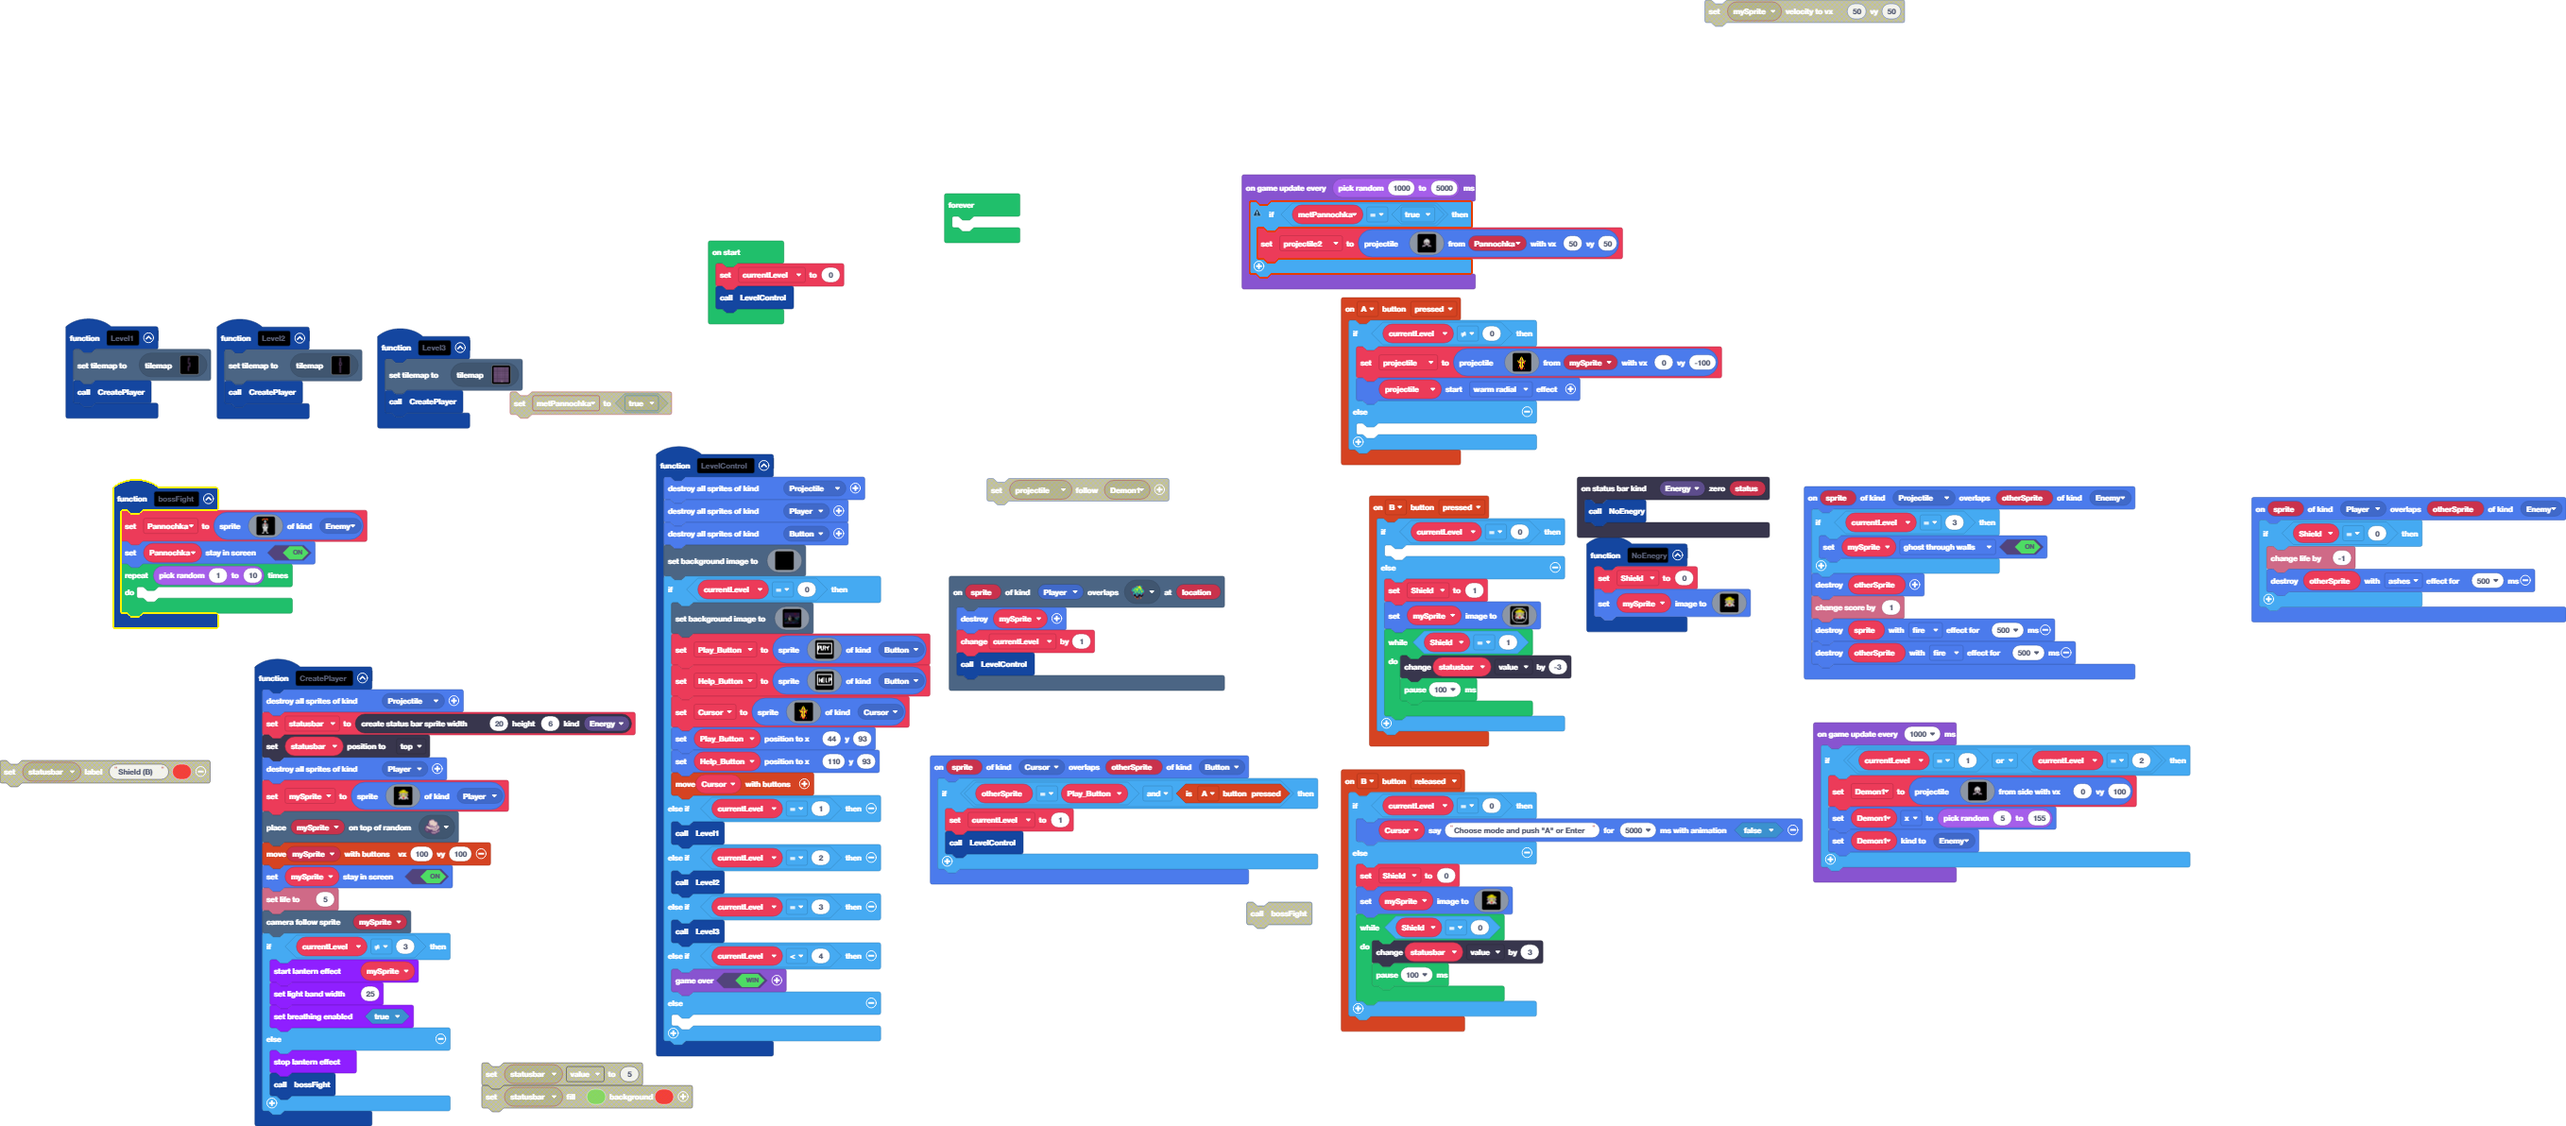
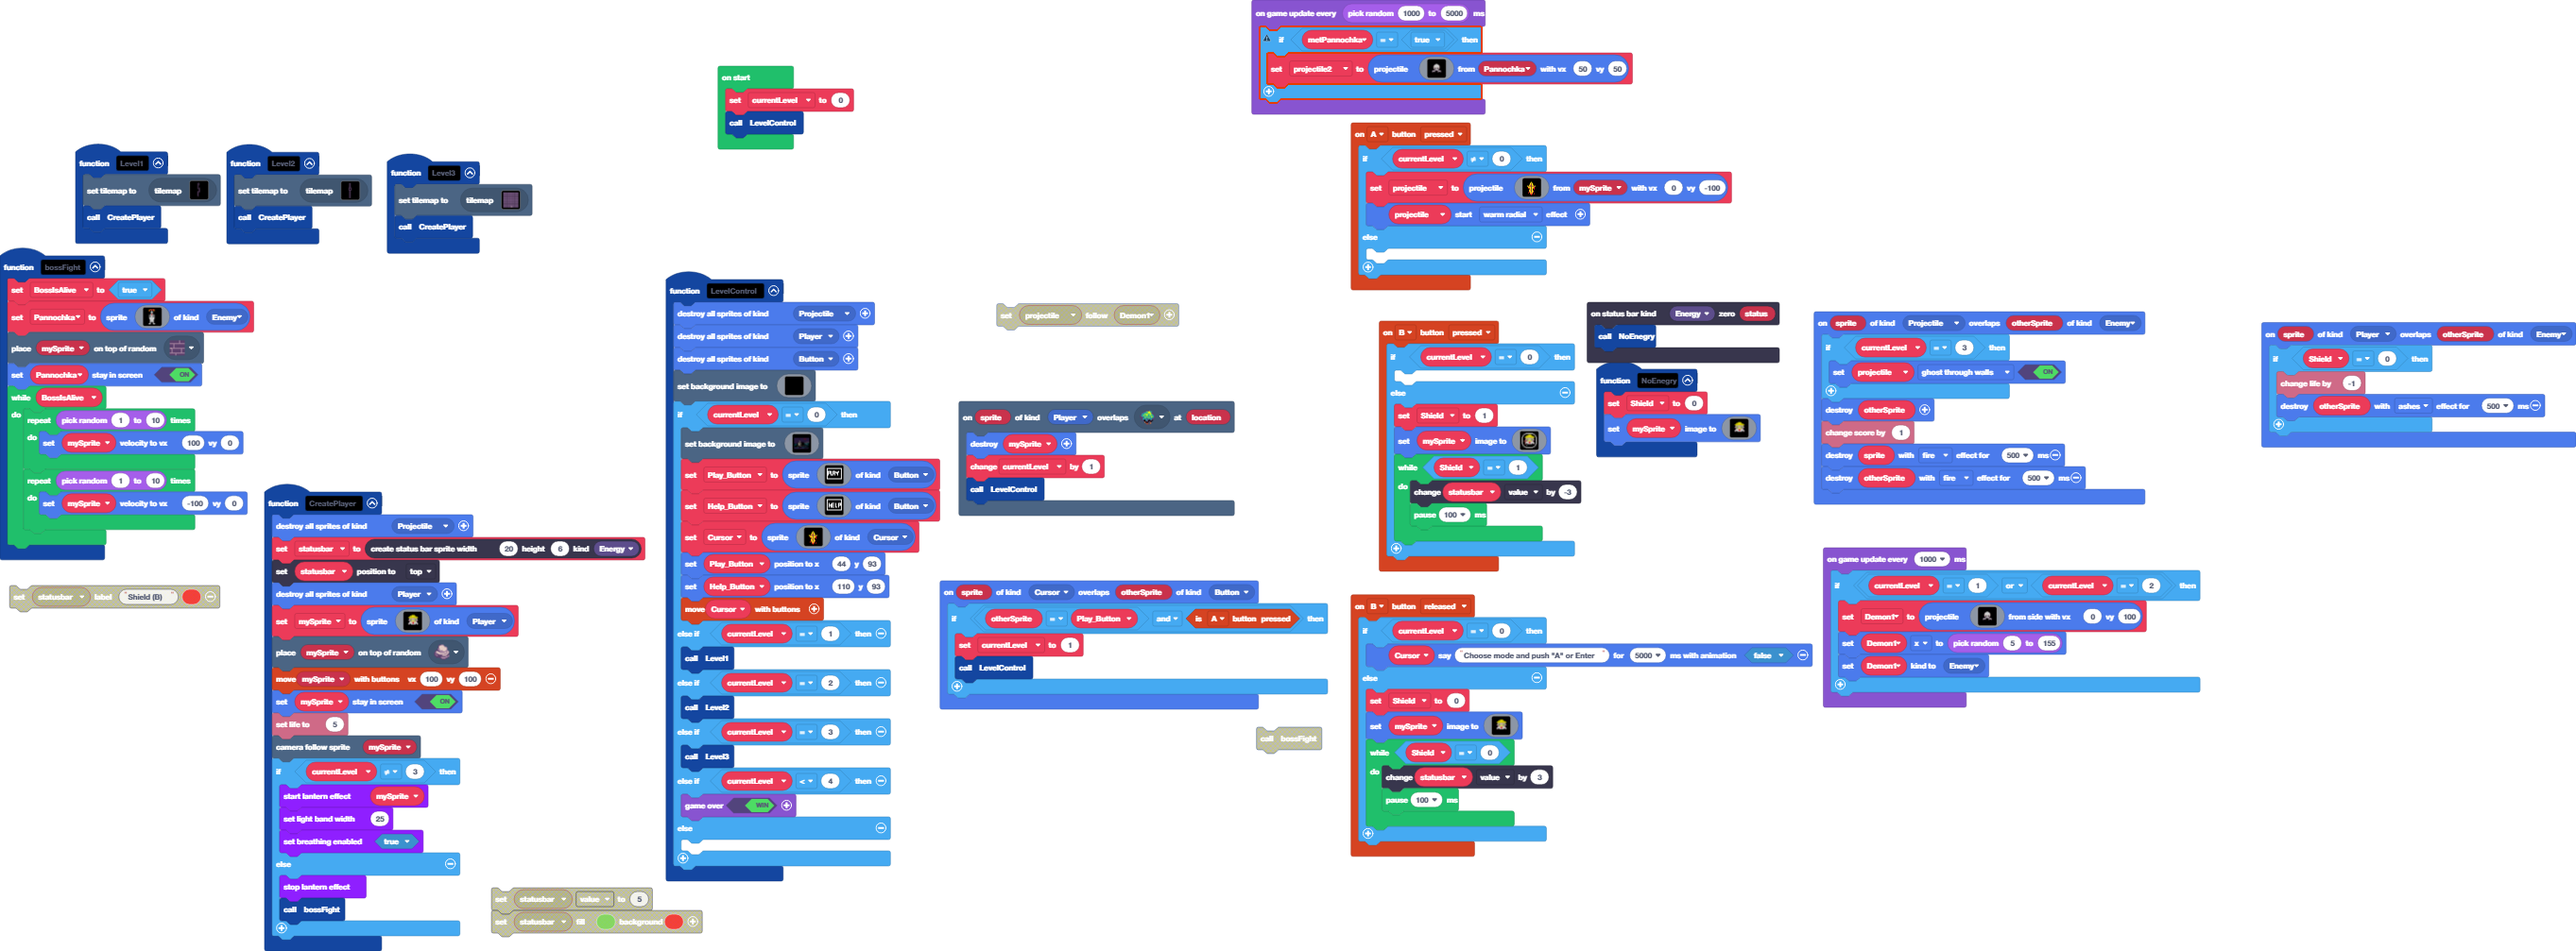
Update main.blocks, main.ts, tilemap.g.jres, tilemap.g.ts

diff --git a/tilemap.g.ts b/tilemap.g.ts
@@ -8,6 +8,8 @@ namespace myTiles {
     export const tile1 = image.ofBuffer(hex``);
     //% fixedInstance jres blockIdentity=images._tile
     export const tile3 = image.ofBuffer(hex``);
+    //% fixedInstance jres blockIdentity=images._tile
+    export const tile4 = image.ofBuffer(hex``);
 
     helpers._registerFactory("tilemap", function(name: string) {
         switch(helpers.stringTrim(name)) {
@@ -216,19 +218,6 @@ namespace myTiles {
 ..........
 ..........
 `, [myTiles.transparency16,sprites.castle.rock0,sprites.castle.saplingOak,myTiles.tile1], TileScale.Sixteen);
-            case "level3":
[1 lines of base64/hex data omitted]
-2 2 2 2 2 2 2 2 2 2 
-2 . . . . . . . . 2 
-2 . . . . . . . . 2 
-2 2 2 2 2 2 2 2 2 2 
-2 . . . . . . . . 2 
-2 . . . . . . . . 2 
-2 . . . . . . . . 2 
-2 . . . . . . . . 2 
-2 . . . . . . . . 2 
-2 . . . . . . . . 2 
-`, [myTiles.transparency16,sprites.castle.rock0,myTiles.tile1], TileScale.Sixteen);
             case "level2":
[1 lines of base64/hex data omitted]
 22.....222
@@ -282,6 +271,19 @@ namespace myTiles {
 22.....222
 22.....222
 `, [myTiles.transparency16,myTiles.tile1,sprites.castle.rock0,sprites.castle.saplingOak], TileScale.Sixteen);
+            case "level3":
[1 lines of base64/hex data omitted]
+2 2 2 2 2 2 2 2 2 2 
+2 . . . . . . . . 2 
+2 . . . . . . . . 2 
+2 2 2 2 2 2 2 2 2 2 
+2 . . . . . . . . 2 
+2 . . . . . . . . 2 
+2 . . . . . . . . 2 
+2 . . . . . . . . 2 
+2 . . . . . . . . 2 
+2 . . . . . . . . 2 
+`, [myTiles.transparency16,sprites.castle.rock0,myTiles.tile1,myTiles.tile4], TileScale.Sixteen);
         }
         return null;
     })
@@ -295,6 +297,8 @@ namespace myTiles {
             case "tile1":return tile1;
             case "myTile1":
             case "tile3":return tile3;
+            case "myTile2":
+            case "tile4":return tile4;
         }
         return null;
     })

diff --git a/main.ts b/main.ts
@@ -394,6 +394,7 @@ function CreatePlayer () {
     }
 }
 function bossFight () {
+    BossIsAlive = true
     Pannochka = sprites.create(img`
         .....542242.....
         ...522f2f25.....
@@ -416,9 +417,15 @@ function bossFight () {
         .....1...1......
         ...111...111....
         `, SpriteKind.Enemy)
+    tiles.placeOnRandomTile(mySprite, assets.tile`myTile2`)
     Pannochka.setStayInScreen(true)
-    for (let index = 0; index < randint(1, 10); index++) {
-    	
+    while (BossIsAlive) {
+        for (let index = 0; index < randint(1, 10); index++) {
+            mySprite.setVelocity(100, 0)
+        }
+        for (let index = 0; index < randint(1, 10); index++) {
+            mySprite.setVelocity(-100, 0)
+        }
     }
 }
 function Level2 () {
@@ -506,7 +513,7 @@ statusbars.onZero(StatusBarKind.Energy, function (status) {
 })
 sprites.onOverlap(SpriteKind.Projectile, SpriteKind.Enemy, function (sprite, otherSprite) {
     if (currentLevel == 3) {
-        mySprite.setFlag(SpriteFlag.GhostThroughWalls, true)
+        projectile.setFlag(SpriteFlag.GhostThroughWalls, true)
     }
     otherSprite.destroy()
     info.changeScoreBy(1)
@@ -547,6 +554,7 @@ let Demon1: Sprite = null
 let projectile2: Sprite = null
 let projectile: Sprite = null
 let Pannochka: Sprite = null
+let BossIsAlive = false
 let statusbar: StatusBarSprite = null
 let mySprite: Sprite = null
 let Shield = 0
@@ -568,7 +576,4 @@ game.onUpdateInterval(1000, function () {
         Demon1.x = randint(5, 155)
         Demon1.setKind(SpriteKind.Enemy)
     }
-})
-forever(function () {
-	
 })
